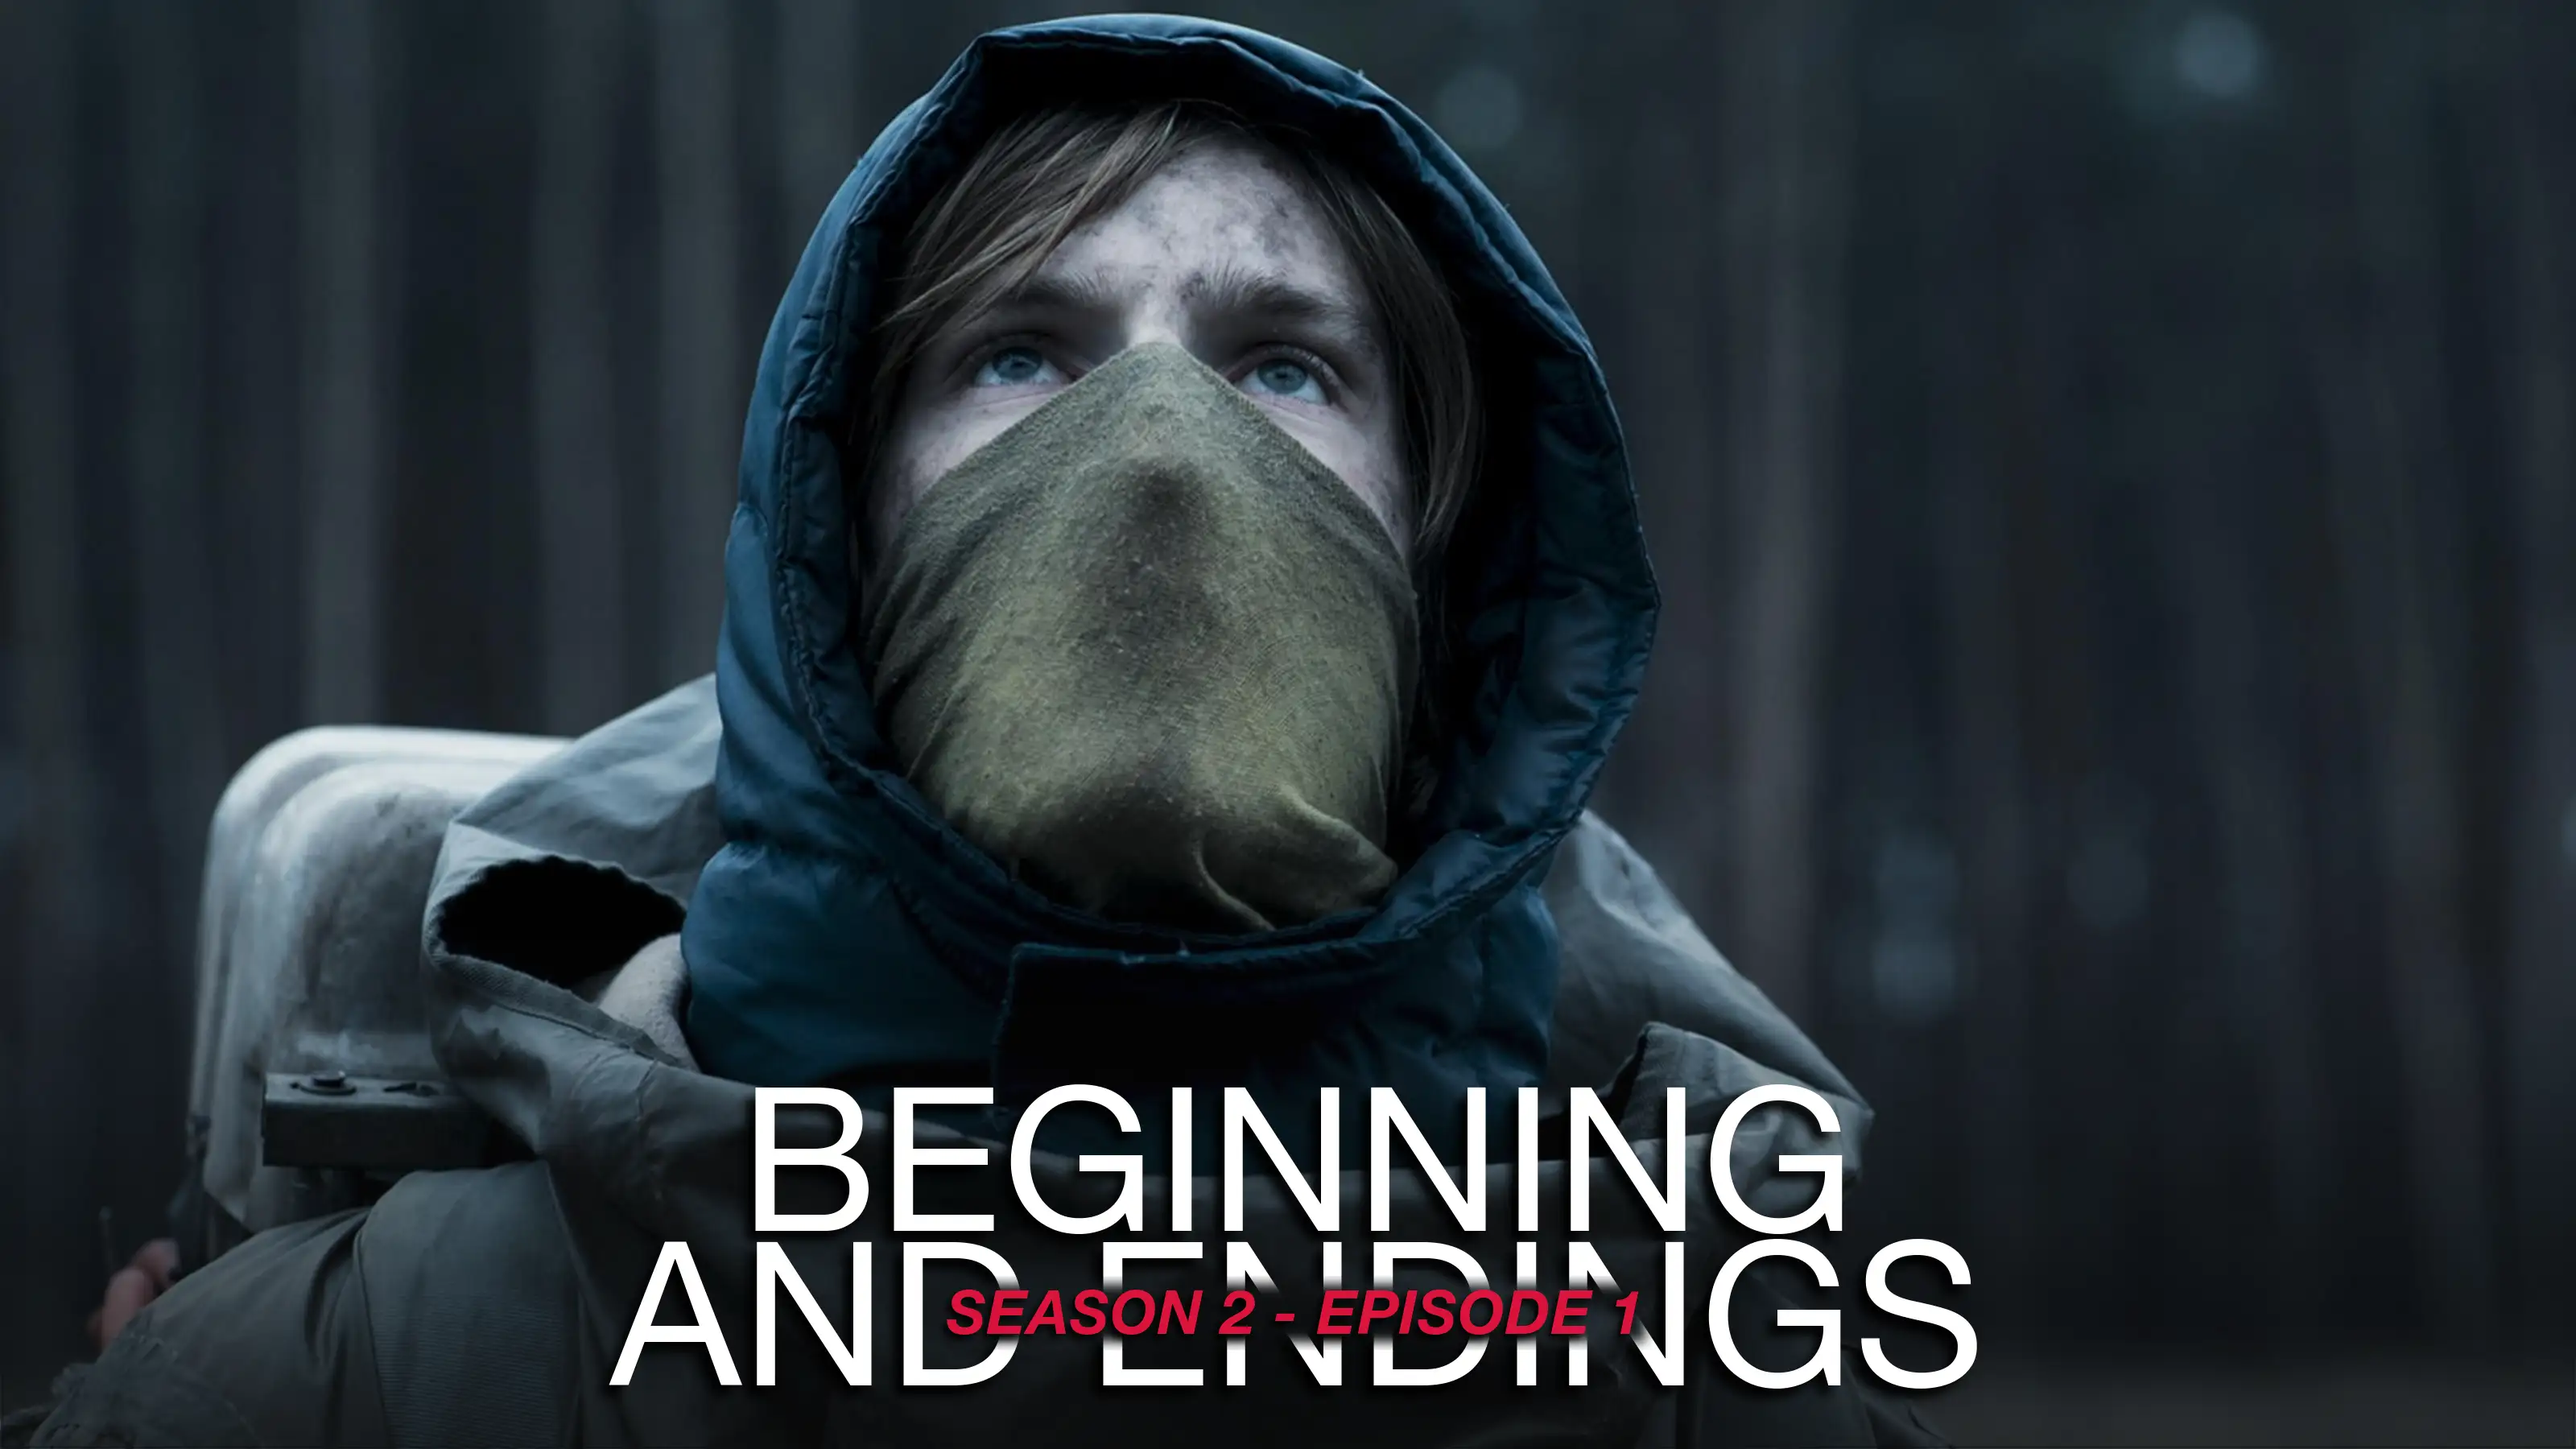
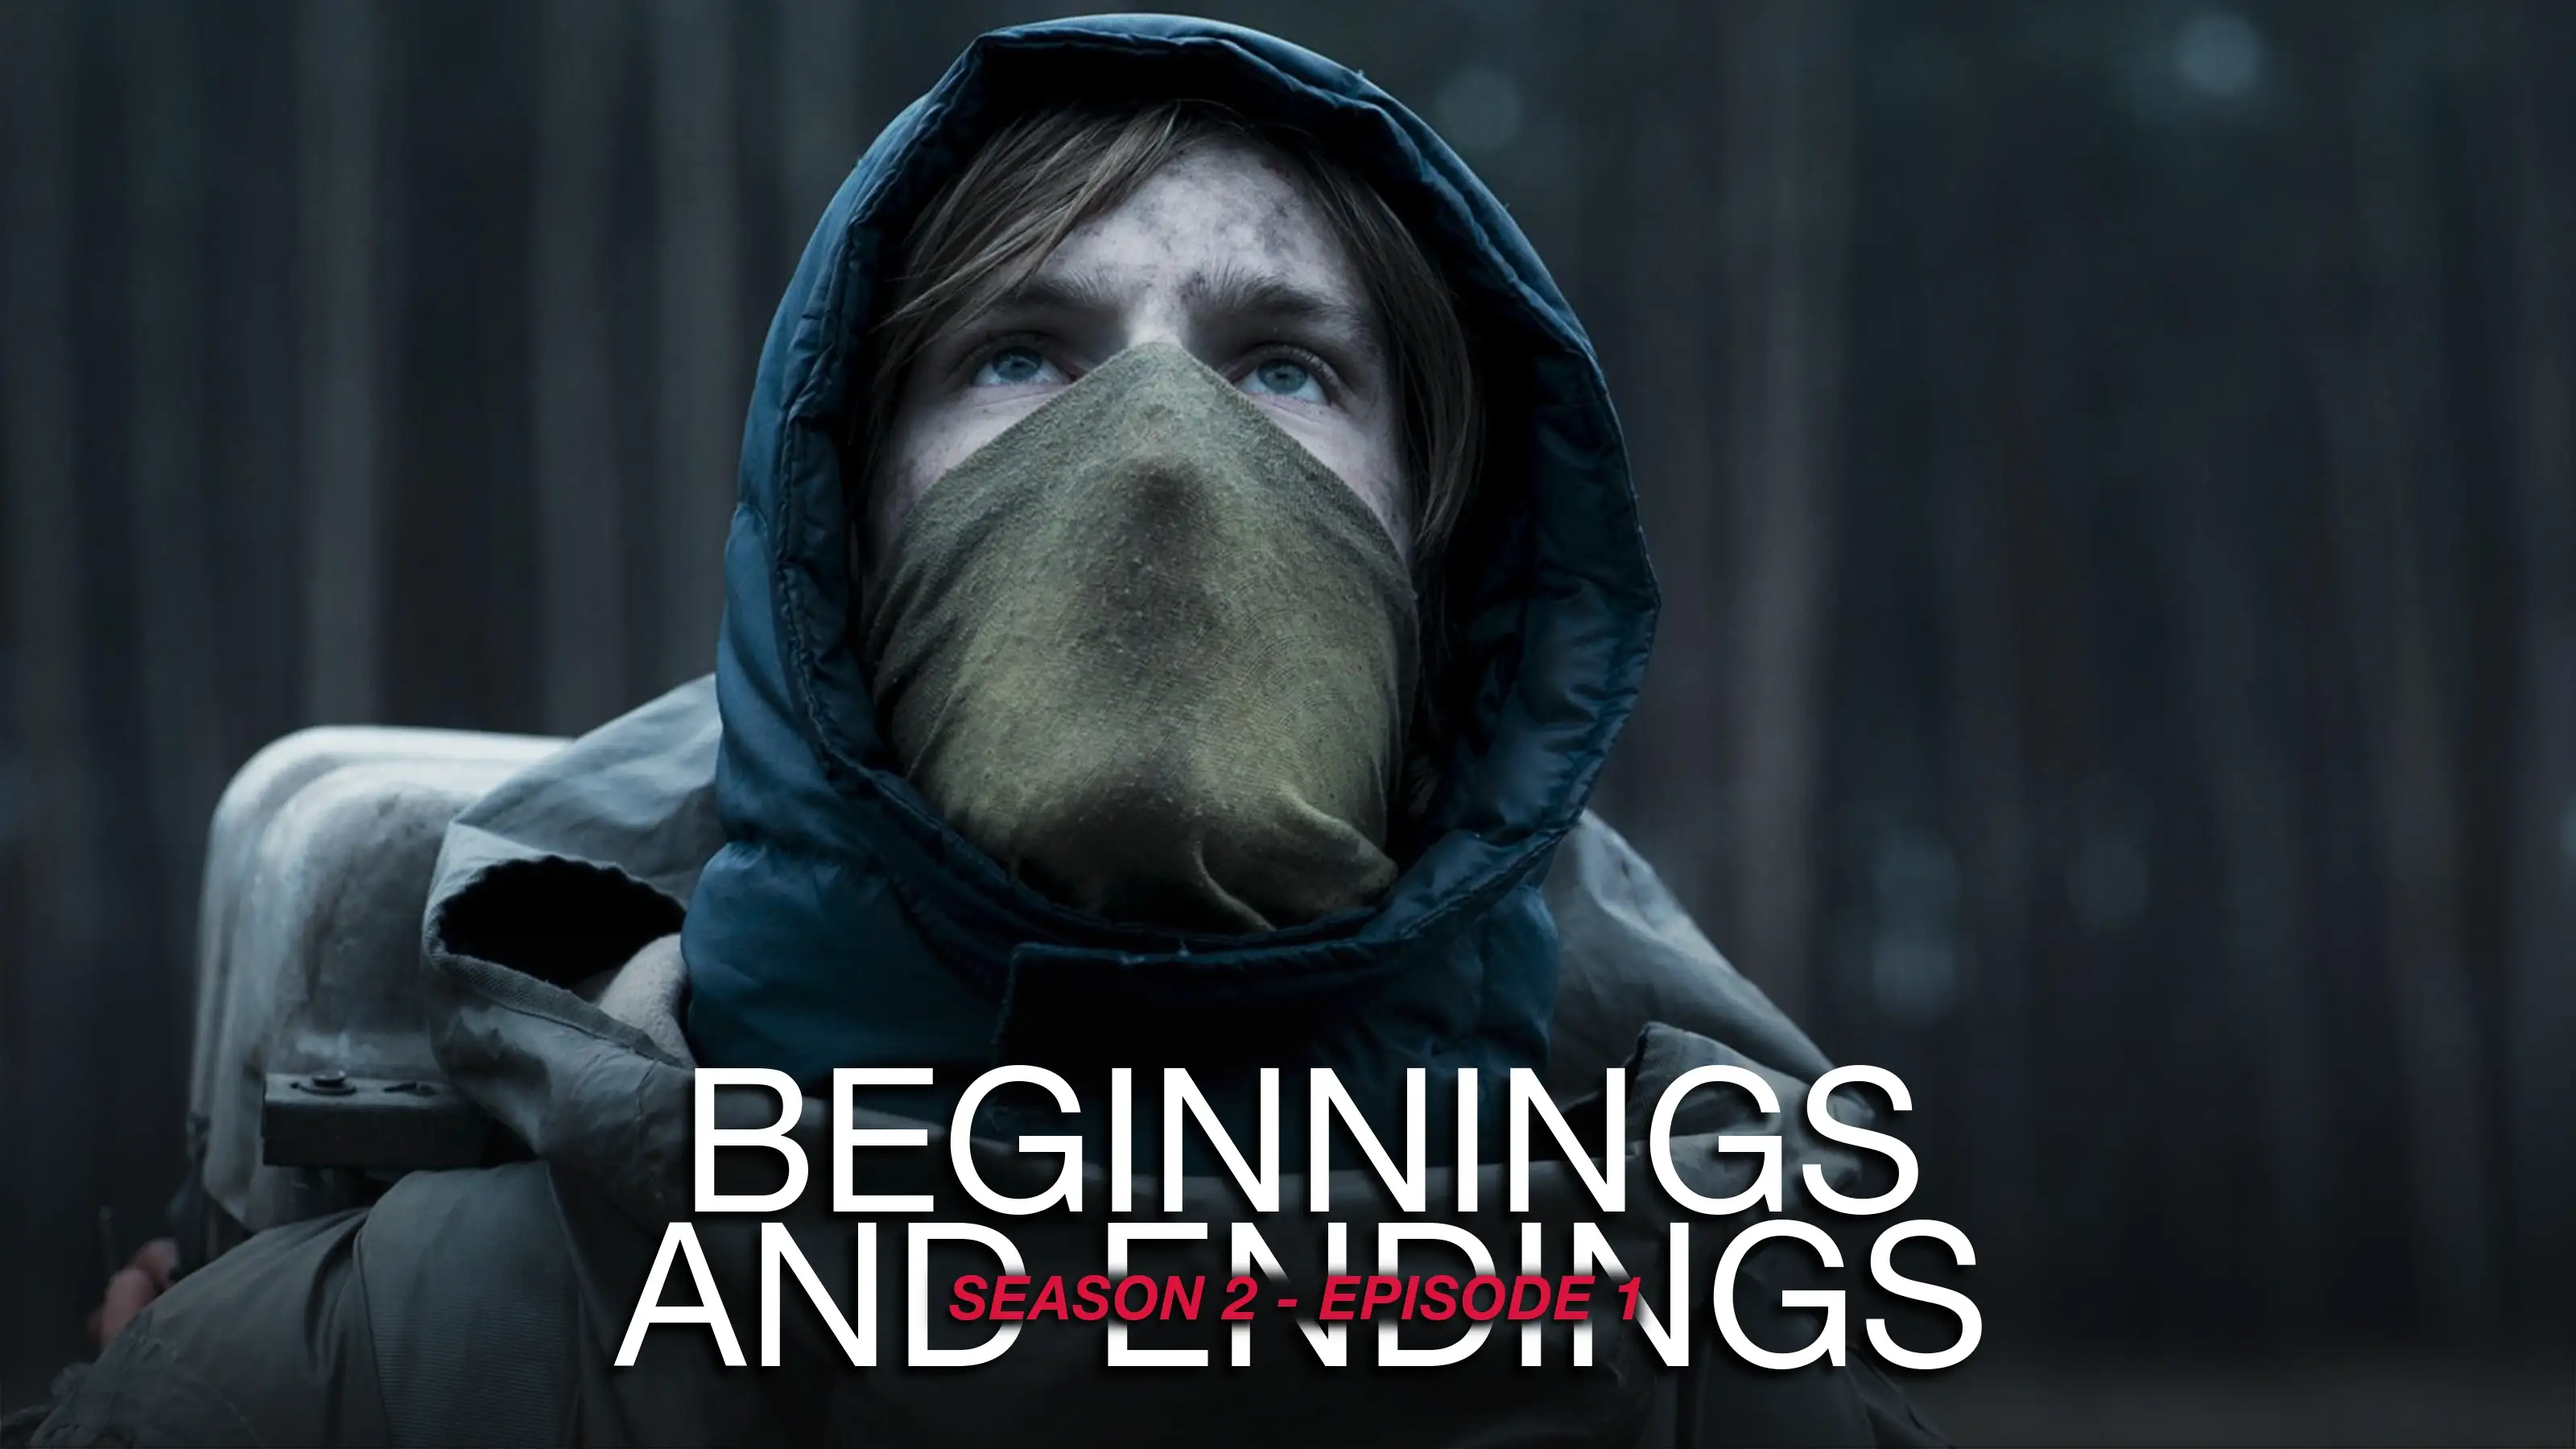
[662] Add docs for Inset card type

Changed region(s): [[0.25, 0.7156, 0.7812, 0.9644], [0.2188, 0.9333, 0.25, 0.9644]]

diff --git a/backend/app/cards/types/Inset.py b/backend/app/cards/types/Inset.py
@@ -5,11 +5,14 @@ from pydantic import FilePath, Field
 
 from app.cards.base import (
     BaseCardType,
+    CardDocumentation,
     CardTypeDescription,
     DefaultCardConfig,
     Extra,
     ImageMagickCommands,
+    PreviewCard,
     Shadow,
+    add_cli,
 )
 from app.schemas.base import BaseCardModel, BaseCardTypeAllText, FontSize
 
@@ -367,3 +370,39 @@ def get_validator_model() -> type[BaseCardModel]:
         transparency: Annotated[float, Field(ge=0.0, le=1.0)] = 1.0
 
     return CardModel
+
+
+add_cli(
+    __name__,
+    InsetTitleCard,
+    get_validator_model(),
+    documentation=CardDocumentation(
+        static_variables={
+            'title_text': 'Beginnings\nand Endings'.upper(),
+            'season_text': 'Season 2',
+            'episode_text': 'Episode 1',
+        },
+        cards=[
+            PreviewCard(
+                filename='episode_text_color',
+                variables={'episode_text_color': 'gold'},
+            ),
+            PreviewCard(
+                filename='episode_text_font_size',
+                variables={'episode_text_font_size': 1.2},
+            ),
+            PreviewCard(
+                filename='separator',
+                variables={'separator': '//'},
+            ),
+            PreviewCard(
+                filename='transparency',
+                variables={'transparency': 0.5},
+            ),
+            PreviewCard(
+                filename='omit_gradient',
+                variables={'omit_gradient': True},
+            ),
+        ]
+    ),
+)

diff --git a/docs/card_types/inset.md b/docs/card_types/inset.md
@@ -1,0 +1,134 @@
+---
+title: Inset Card Type
+description: >
+    An overview of the built-in Inset card type.
+---
+
+<link rel="stylesheet" type="text/css" href="https://unpkg.com/image-compare-viewer/dist/image-compare-viewer.min.css">
+<script src="../../javascripts/imageCompare.js" defer></script>
+
+# Inset Card Type
+
+This card design was created by [CollinHeist](https://github.com/CollinHeist).
+
+This card type shows the season and episode text **inset into** the title text:
+the index text appears to "cut out" of the title, with a window of the source
+image (styled to match the card) visible behind it. The title sits at the
+bottom with a drop shadow, and supports custom fonts and custom season titles.
+
+<figure markdown="span" style="max-width: 70%">
+  ![Example Inset Card](./assets/inset.webp)
+</figure>
+
+??? note "Labeled Card Elements"
+
+    ![Labeled Inset Card Elements](./assets/inset/labeled.webp)
+
+## Episode Text
+
+Unless _explicitly_ stated otherwise, "episode text" here refers to both the
+season and episode text (the inset index).
+
+This card will position the episode text in the middle of the title text. If
+there are multiple lines of title text, it will be positioned in the middle of
+the bottom line.
+
+### Color
+
+The color of the inset index text can be adjusted with the _Episode Text Color_
+extra.
+
+??? example "Example"
+
+    <div class="image-compare example-card"
+        data-starting-point="50"
+        data-left-label="gold"
+        data-right-label="crimson">
+        <img src="../assets/inset/episode_text_color.webp"/>
+        <img src="../assets/inset.webp"/>
+    </div>
+
+### Font Size
+
+The size of the inset text can be adjusted with the _Episode Text Font Size_
+extra. Values greater than `#!yaml 1.0` increase the size; values less than
+`#!yaml 1.0` decrease it.
+
+??? example "Example"
+
+    <div class="image-compare example-card"
+        data-starting-point="41.85"
+        data-left-label="1.2"
+        data-right-label="1.0">
+        <img src="../assets/inset/episode_text_font_size.webp"/>
+        <img src="../assets/inset.webp"/>
+    </div>
+
+## Separator Character
+
+When both season and episode text are shown, a separator is placed between them.
+The _Separator Character_ extra controls this character. The default is a dash.
+
+??? example "Example"
+
+    <div class="image-compare example-card"
+        data-starting-point="50"
+        data-left-label="//"
+        data-right-label="-">
+        <img src="../assets/inset/separator.webp"/>
+        <img src="../assets/inset.webp"/>
+    </div>
+
+## Inset Text Transparency
+
+The _Inset Text Transparency_ extra controls how opaque the "cut-out" background
+is—i.e. the patch of source image visible behind the index text. A value of
+`#!yaml 1.0` (default) is fully opaque; `#!yaml 0.0` is fully transparent.
+
+??? example "Example"
+
+    <div class="image-compare example-card"
+        data-starting-point="51.95"
+        data-left-label="0.5"
+        data-right-label="1.0">
+        <img src="../assets/inset/transparency.webp"/>
+        <img src="../assets/inset.webp"/>
+    </div>
+
+## Gradient Overlay
+
+A gradient is applied over the source image by default to improve legibility. It
+can be removed by setting the _Gradient Omission_ extra to `True`. Removing
+this gradient only affects the image gradient overlay - the dropshadow of the
+text is not affected.
+
+!!! warning "Text legibility"
+
+    With the gradient omitted, text may be harder to read on bright images.
+
+??? example "Example"
+
+    <div class="image-compare example-card"
+        data-starting-point="50"
+        data-left-label="True"
+        data-right-label="False">
+        <img src="../assets/inset/omit_gradient.webp"/>
+        <img src="../assets/inset.webp"/>
+    </div>
+
+## Mask Images
+
+This card also natively supports [mask images](../user_guide/mask_images.md).
+Like all mask images, TCM will automatically search for alongside the input
+Source Image in the Series' source directory, and apply this atop all other Card
+effects.
+
+!!! example "Example"
+
+    <div class="image-compare example-card"
+        data-starting-point="34"
+        data-left-label="Mask Image"
+        data-right-label="Resulting Title Card">
+        <img src="../assets/inset/mask-raw.webp"/>
+        <img src="../assets/inset/mask.webp"/>
+    </div>
